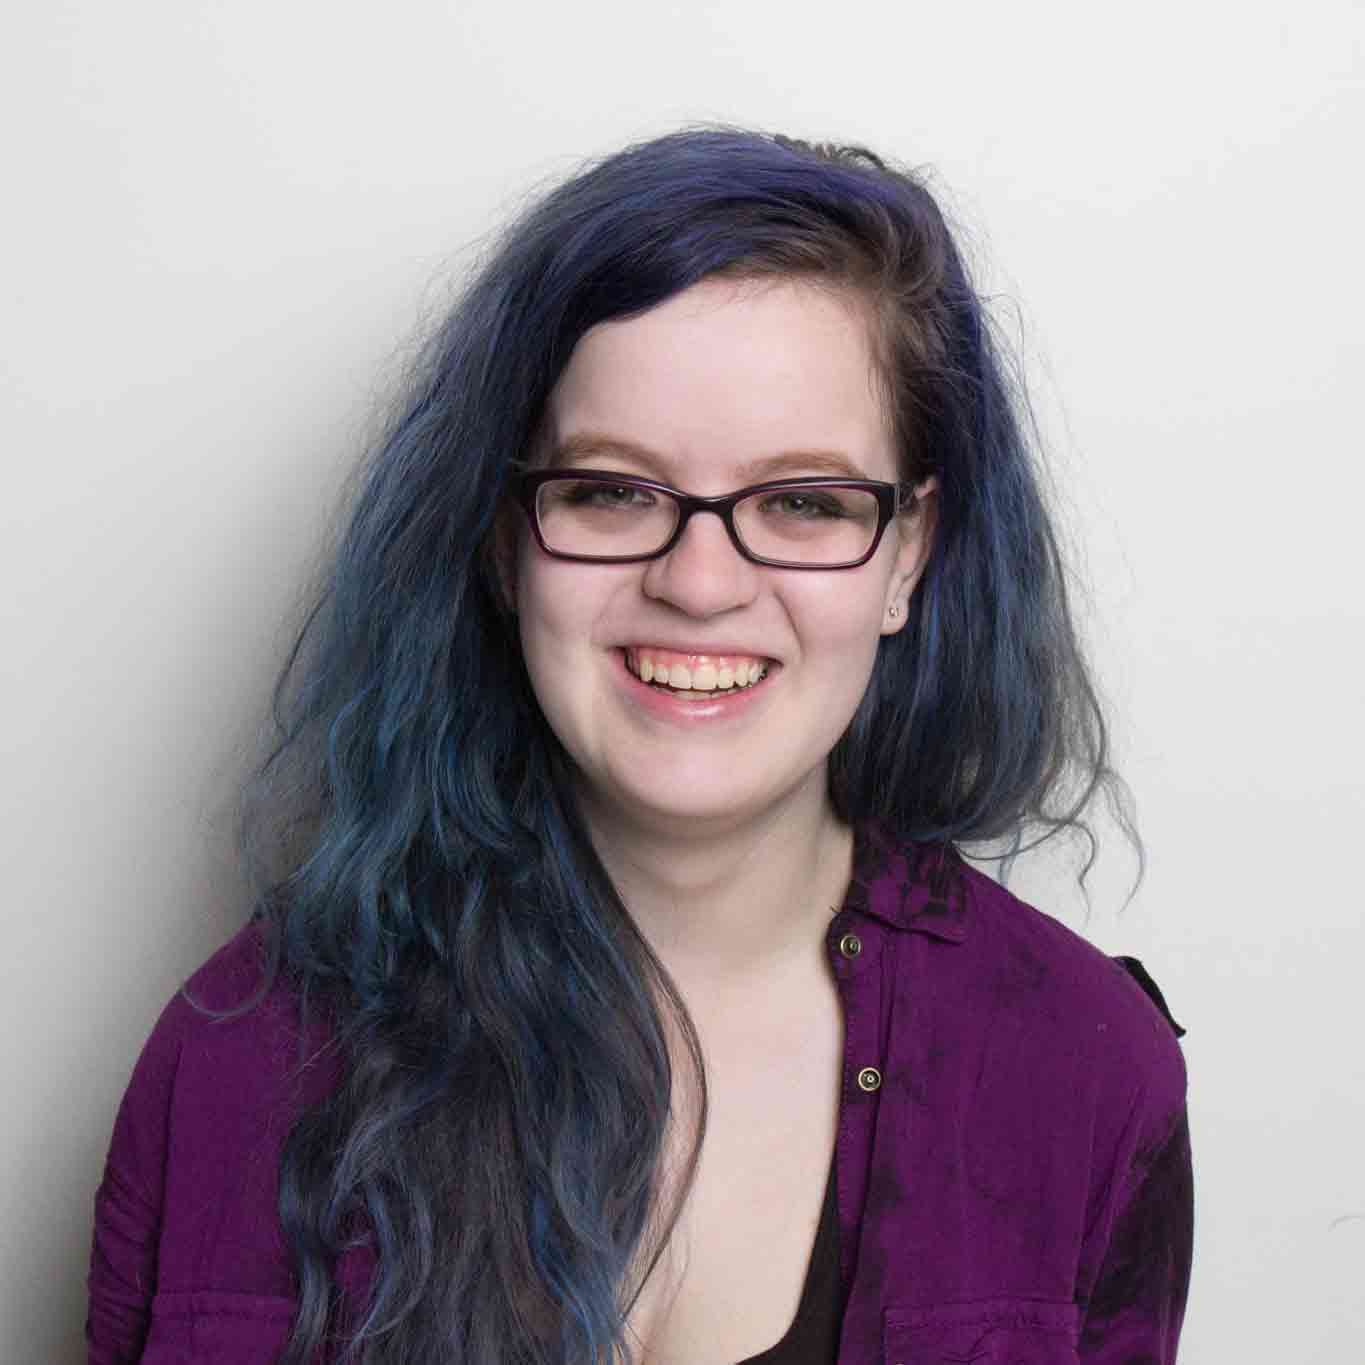
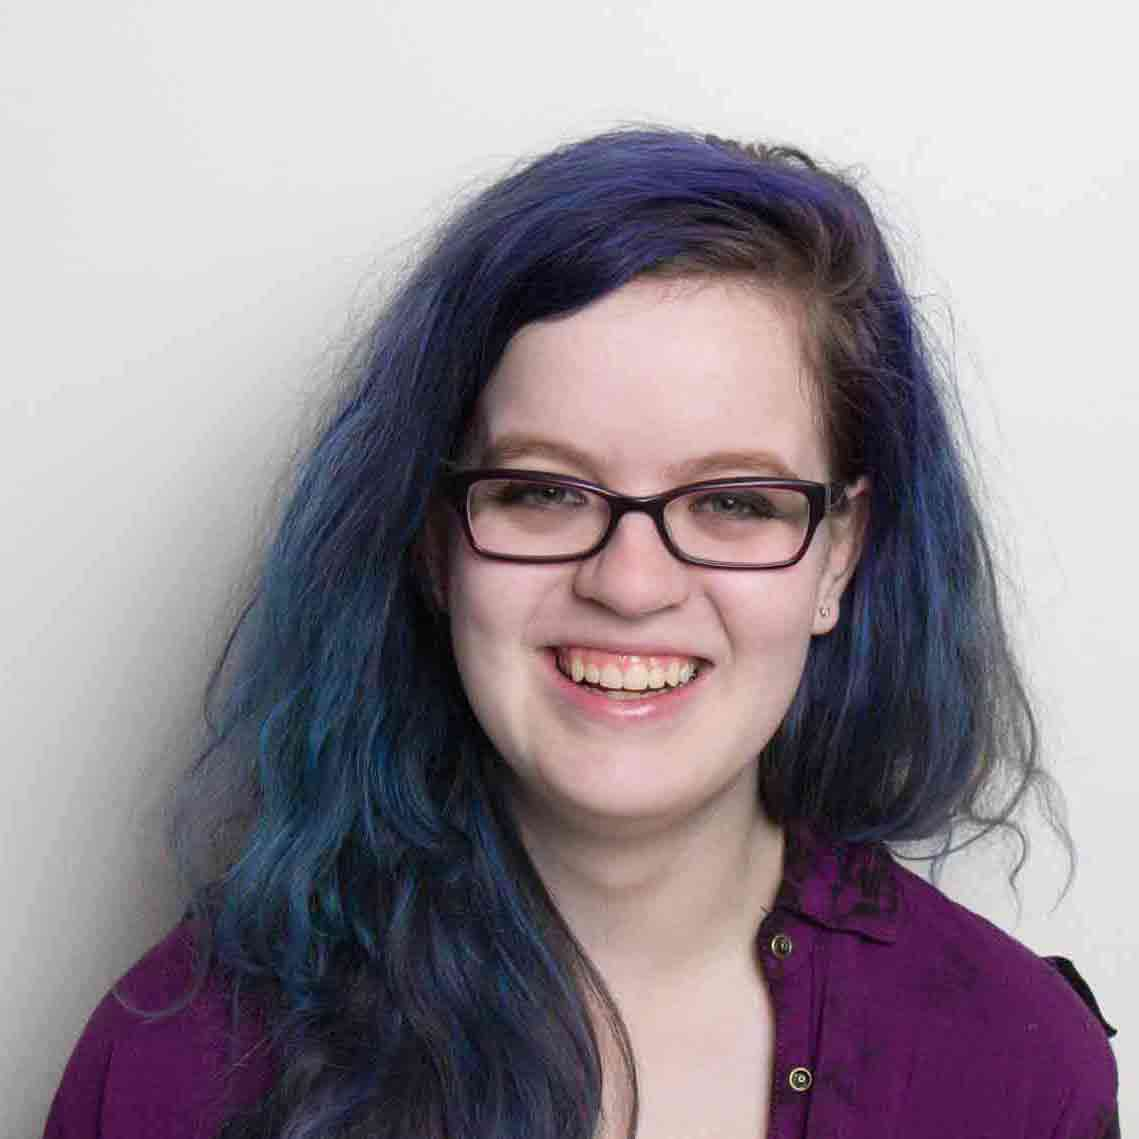
additional styling media queries

diff --git a/index.html b/index.html
@@ -14,13 +14,13 @@
       <h1>Desiree Deschenes</h1>
       <h2>Designer</h2>
       <img class="portrait" src="img/IMG_0248.jpg" alt="This is me!">
-      <p>I am a graphic designer based in Ottawa, Canada. I specialise in logo design, document layout and identity. I create beautiful, usable, professional logos and illustrations. All my work is built from hand drawn designs. For creating my pieces my weapons of choice are Photoshop, Illustrator, and InDesign from Adobe. Currently, I am in my second year of the challenging three year Graphic Design course at Algonquin College. They've strengthened me through training in typography, the basic fundamentals of creativity, design, image. When I am not designing, I am enjoying music with my boyfriend of 5 years. This is all I have ever wanted to do, my dream job.
+      <p>I am a graphic designer based in Ottawa, Canada. I specialise in logo design, document layout and identity. I create beautiful, usable, professional logos and illustrations. All my work is built from hand drawn designs. For creating my pieces my weapons of choice are Photoshop, Illustrator, and InDesign from Adobe. Currently, I am in my second year of the challenging three year Graphic Design course at Algonquin College. They've strengthened me through training in typography, the basic fundamentals of creativity, design, image. When I am not designing, I am enjoying music with my boyfriend of 5 years. This is all I have ever wanted to do, my dream job.</p>
 
-I am currently available for freelance work.</p>
+<p>I am currently available for freelance work.</p>
       <a href="https://www.facebook.com/deschenesdesign?ref=aymt_homepage_panel"><img class="contactbtns" src="img/fb-logo-blue.png" alt="Link to my Facebook Page"></a>
       <a href="https://www.pinterest.com/desireedeschene/"><img class="contactbtns" src="img/pinterest-red.svg" alt="Link to my Pinterest Page"></a>
       <a href="https://twitter.com/deschenesdesign"><img class="contactbtns" src="img/twitter-logo-white.svg" alt="Link to my Twitter Page"></a>
-      <a href="https://www.behance.net/DesireeDeschenes"><img class="contactbtns" src="img/fb-logo-blue.png" alt="Link to my Facebook Page"></a>
+      <a href="https://www.behance.net/DesireeDeschenes"><img class="contactbtns" src="img/behance-be-logo-01.png" alt="Link to my Facebook Page"></a>
     </main>
 
   </body>

diff --git a/css/main.css b/css/main.css
@@ -17,11 +17,64 @@ html {
 *,*::before, *::after {
   box-sizing: inherit;
 }
-.contactbtns {
-  width: 50px;
+h1 {
+  font-size: 33.18px;
+  text-align: center;
+}
+h2 {
+  font-size: 20.8px;
+  text-align: center;
 }
 .portrait {
   width: 50%;
   border-radius: 70px;
+  margin: 0 auto;
+  display: block;
 
+}
+.contactbtns {
+  width: 50px;
+  display: inline-block;
+  float: left;
+  padding: 4px;
+}
+
+@media only screen and (min-width: 22em) {
+  html {
+    font-size: 110%;
+    line-height: 1.4;
+  }
+
+  h1 {
+    font-size: 41.49px;
+    text-align: left;
+  }
+  h2 {
+    font-size: 25px;
+    text-align: left;
+  }
+  .portrait {
+    border-radius: 100px;
+    max-width: 9em;
+  }
+  .contactbtns {
+
+  }
+}
+@media only screen and (min-width: 28em) {
+  html {
+    font-size: 120%;
+    line-height: 1.5;
+
+  }
+  main {
+    float: right;
+    width: 70%;
+  }
+  h1 {
+
+  }
+  h2 {
+
+  }
 }
